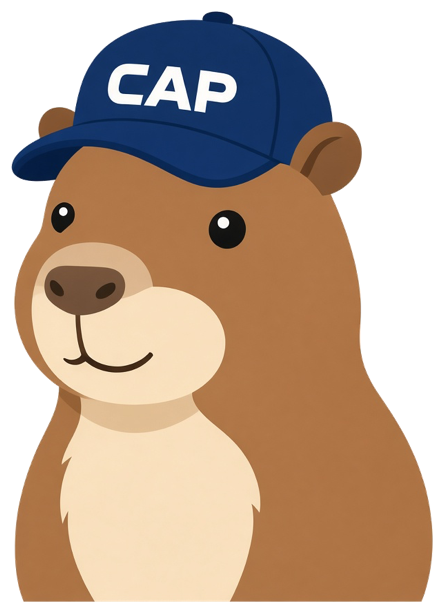
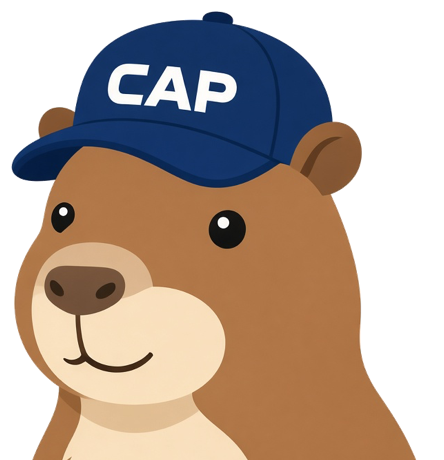
site: crop the mascot below the shoulders and center it in the README

diff --git a/README.md b/README.md
@@ -2,7 +2,9 @@
 
 **The front door to your website, for every AI agent.**
 
-<img src="site/public/mascot.png" alt="A capybara wearing a CAP ball cap" width="180">
+<p align="center">
+  <img src="site/public/mascot-capybara.png" alt="A capybara wearing a CAP ball cap" width="180">
+</p>
 
 More and more people send agents to websites to learn about a company and its policies, shop, book, and manage accounts.
 
